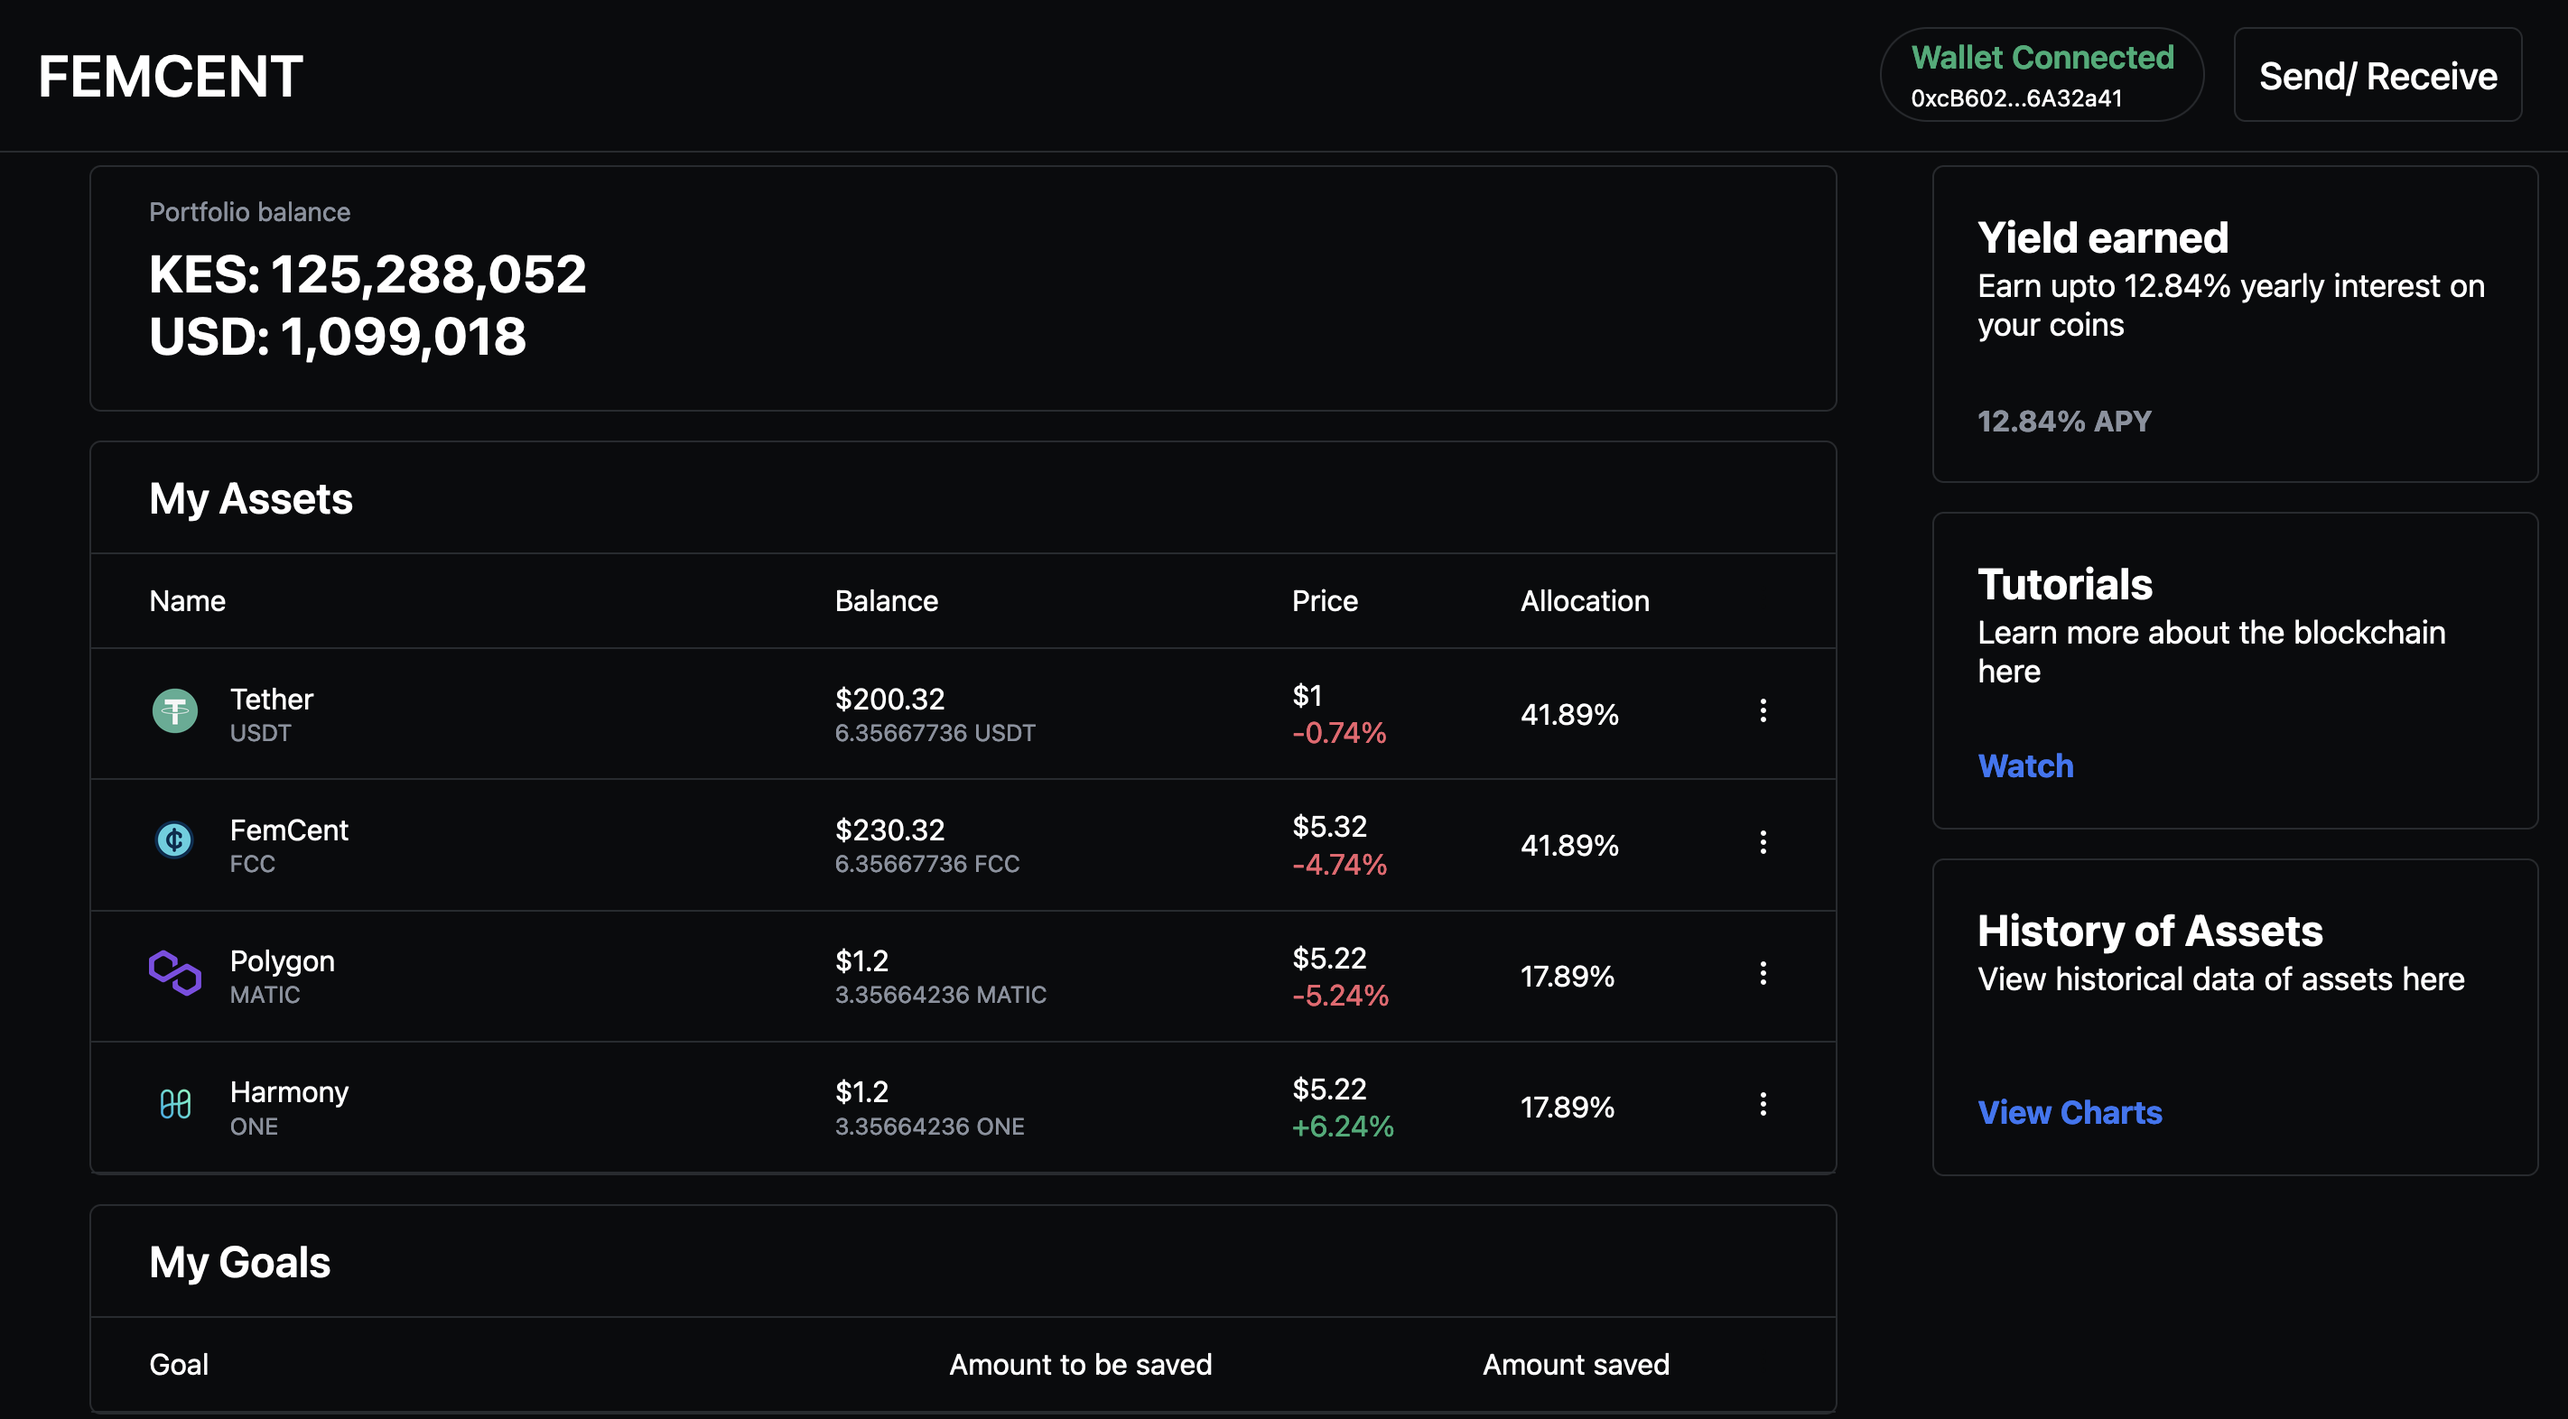
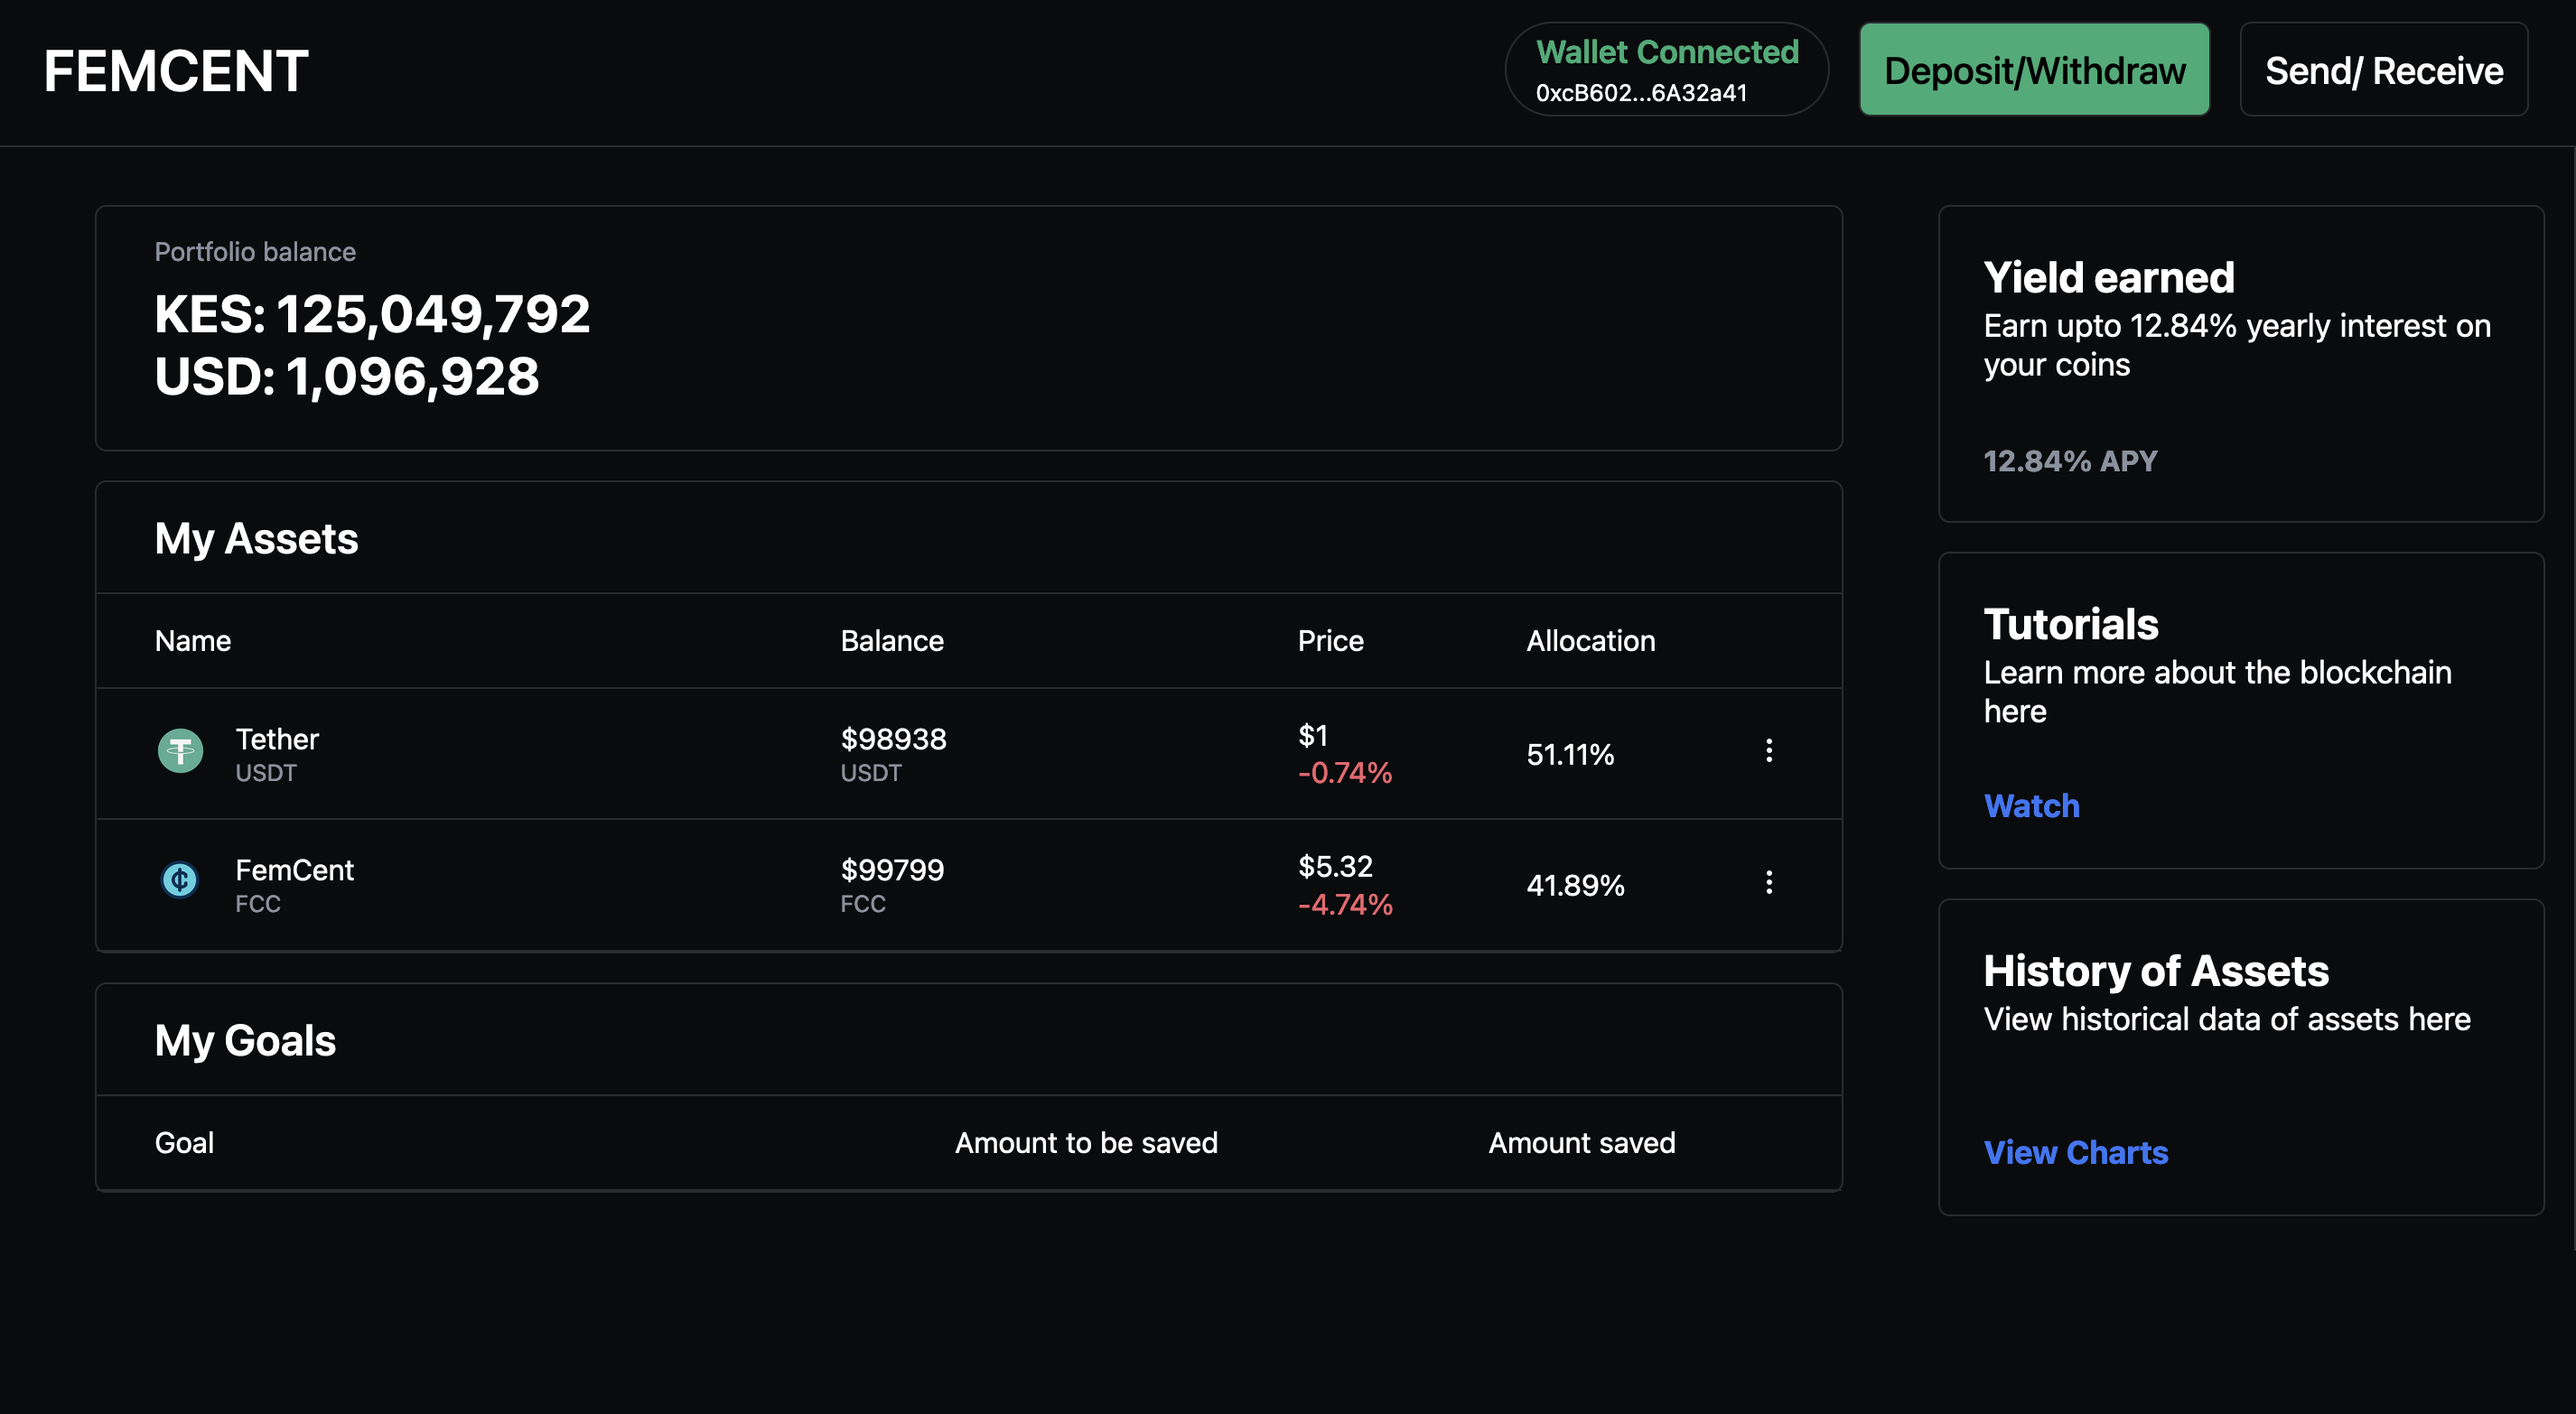
Updated README

diff --git a/static/coins.js b/static/coins.js
@@ -13,18 +13,18 @@ export const coins = [
     name: 'Tether',
     sign: 'USDT',
     logo: tetherLogo,
-    balanceUsd: 200.32,
-    balanceCoin: 6.35667736,
+    balanceUsd: 98938.00,
+    // balanceCoin: 6.35667736,
     priceUsd: 1.00,
     change: -0.74,
-    allocation: 41.89,
+    allocation: 51.11,
   },
   {
     name: 'FemCent',
     sign: 'FCC',
     logo: femcentLogo,
-    balanceUsd: 230.32,
-    balanceCoin: 6.35667736,
+    balanceUsd: 99799.00,
+    // balanceCoin: 6.35667736,
     priceUsd: 5.32,
     change: -4.74,
     allocation: 41.89,

diff --git a/README.md b/README.md
@@ -2,9 +2,9 @@
 
 In a study conducted by the World Bank, it was shown that Africa is the only region in the world with more women entrepreneurs, yet it is estimated that women earn 32% less than their male counterparts. Furthermore, 66% of those living in Sub-Saharan Africa have no access to a traditional bank account. This has led to the emergence of alternative financial services such as saccos and microsavings groups which have been widely adopted by women in Africa.
 
-In addition, opening a USD account for most Africans was out of reach but with the emergence of Blockchain Technology, we conceptualized FEMCENT, a blockchain savings and investments platform. This platform creates a solution in which members can save in digital currencies known as ‘stable coins’ which are fully backed by U.S. dollar assets and offer competitive return on investments.
+In addition, opening a USD account for most Africans was out of reach but with the emergence of Blockchain Technology, we conceptualized FEMCENT, a De-Fi platform that enables SMEs to carry out cross-border transactions quickly and efficiently at a minimal cost, promoting economic growth. In line with achieving a sustainable and equitable global economic future, our solution enables its users to remit in digital currencies known as ‘stable coins’ which are fully backed by U.S. dollar assets and offer competitive returns on investments.
 
-On a wider scale, this platform will not only positively impact the local communities but can also be scaled to other African communities, to positively impact the savings and investments platforms they have access to.
+On a wider scale, this platform will not only positively impact the local communities but can also be scaled to other African communities, to positively impact the remitting platforms they have access to.
 
 ## A preview of the app's interface.
 ![Interface 1](docs/images/interface1.png)
